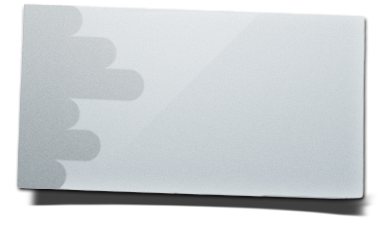
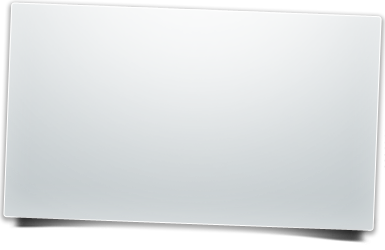
finished business card and footer

diff --git a/css/style.css b/css/style.css
@@ -155,7 +155,7 @@ button {  width: auto; overflow: visible; }
 body {
   background: #fff url(../graphics/bg.jpg) repeat center 2px;
   font-size: 100%;
-  -webkit-text-size-adjust: none;
+/*  -webkit-text-size-adjust: none;*/
   color: #869da4;
   font-family: "proxima-nova-1", "proxima-nova-2", "helevetica neue", helvetica, arial;
   text-shadow: 0px -1px 1px rgba(0,0,0,1);
@@ -174,7 +174,6 @@ h2 {
   font-weight: 400;
   text-align: center;
   width: 810px;
-  padding: 0px 20px;
   margin: 0px auto 40px auto;
   text-shadow: 0px -1px 3px rgba(0,0,0,1);
 }
@@ -290,7 +289,7 @@ intro
   font-weight: 400;
   text-align: center;
   -webkit-font-smoothing: antialiased;
-  text-shadow: 0px -1px 3px rgba(0,0,0,1);
+  text-shadow: 0px -2px 4px rgba(0,0,0,0.75);
   color: #c9d4d7;
 }
 
@@ -311,7 +310,6 @@ slideshow
   -moz-border-radius: 10px;
   border-radius: 10px;
   background: #0c0d0e url(../graphics/slideshow-bg.png) repeat top center;
-  margin-bottom: 0px;
   -webkit-box-shadow: 0px 1px 2px rgba(255,255,255,0.1);
   -moz-box-shadow: 0px 1px 2px rgba(255,255,255,0.1);
   box-shadow: 0px 1px 2px rgba(255,255,255,0.1);
@@ -512,49 +510,61 @@ contact
 }
 
 #business-card {
-  background: transparent url(../graphics/business-card.png) no-repeat center center;
+/*  background: transparent url(../graphics/business-card.png) no-repeat center center;*/
+  -webkit-border-radius: 5px;
+  -moz-border-radius: 5px;
+  border-radius: 5px;
+  background-color: #f1f1f1;
+  border: 1px solid #fff;
+  padding: 50px 0px 0px 0px;
+  text-shadow: none;
+  width: 383px;
   text-align: center;
-  padding: 60px 40px 0px 0px;
-  text-shadow: none;
-  width: 325px;
-  height: 200px;
-  font-size: 0.675em;
-  text-shadow: 0px 1px 1px rgba(255,255,255,0.75);
-}
-
-#business-card-vertical {
-  background: transparent url(../graphics/business-card-vertical.png) no-repeat center center;
-  padding: 80px 92px 0px 40px;
-  text-shadow: none;
-  width: 160px;
-  height: 282px;
-  font-size: 0.75em;
-  text-shadow: 0px 1px 1px rgba(255,255,255,0.75);
-}
-
-#business-card p, #business-card h3 {
-  font-family: "lucida grande", "lucida sans", "lucida sans unicode", sans-serif;
-  color: #46575d;
+  height: 150px;
+  font-size: 0.875em;
+  text-shadow: 0px 1px 1px rgba(255,255,255,1);
+  background-image:-webkit-gradient(linear, 0% 0%, 0% 100%, color-stop(0%, #eee), color-stop(100%, #bbb));
+  background-image:-moz-linear-gradient(top, #eee 0%, #bbb 100%);
+  background-image:linear-gradient(top, #eee 0%, #bbb 100%);
+  color: #2b2f33;
   line-height: 1.3;
-  margin-bottom: 10px;
-  text-align: right;
   -moz-transform: rotate(2deg);
   -webkit-transform: rotate(2deg);
   -transform: rotate(2deg);
+
+/*  -webkit-transition: -webkit-transform 0.1s;
+  -moz-transition: -moz-transform 0.1s;
+  transition: transform 0.1s;
+*/
+/*  -webkit-transition-delay: 0.1s;
+  -moz-transition-delay: 0.1s;
+  transition-delay: 0.1s; */
+  -webkit-box-shadow: 0px 4px 10px rgba(0,0,0,1);
+  -moz-box-shadow: 0px 4px 10px rgba(0,0,0,1);
+  box-shadow: 0px 4px 10px rgba(0,0,0,1);
+*/}
+
+#business-card:hover {
+/*  -moz-transform: rotate(0deg);
+  -webkit-transform: rotate(0deg);
+  -transform: rotate(0deg);
+*/}
+
+#business-card p, #business-card h3 {
+  margin-bottom: 10px;
+
 }
 
 #business-card h3 {
-  font-weight: 700;
-  color: #303c3f;
+  font-family: "proxima-nova-1", "proxima-nova-2", "helevetica neue", helvetica, arial;
+  font-weight: 400;
+  font-size: 1.25em;
+  color: #2b2f33;
 }
 
 #business-card a, #business-card a:visited {
-  font-weight: bold;
-  color: #46575d;
-}
-
-#business-card a:hover, #business-card a:focus {
-  color: #303c3f;
+  color: #2b2f33;
+/*  text-decoration: underline;*/
 }
 
 /*
@@ -562,15 +572,60 @@ footer
 */
 
 footer {
-  text-align: center;
   clear: left;
   font-size: 0.875em;
+  width: 940px;
+  padding: 0px 20px;
+  margin-bottom: 40px;
+  height: auto;
+  min-height: 40px;
+  text-align: center;
+  color: #546970;
 }
 
 footer p {
-  width: 640px;
-  margin: 0px 170px 20px 170px;
 }
+
+footer a, footer a:visited {
+  color: #546970;
+  text-decoration: underline;
+}
+
+footer a:hover, footer a:focus {
+  color: #869da4;
+
+}
+
+/*#elsewhere {
+  width: 7em;
+  margin: 0px auto;
+}               */
+
+/*#elsewhere a, #elsewhere a:visited {
+  width: 2.2em;
+  float: left;
+  height: 2.2em;
+  display: block;
+  -webkit-border-radius: 1.5em;
+  -moz-border-radius: 1.5em;
+  border-radius: 1.5em;
+  background-color: #637b83;
+}
+
+#elsewhere a:hover, #elsewhere a:focus {
+  background-color: #7c959c;
+}           */
+
+/*#elsewhere a img {
+  height: 1.6em;
+  width: 1.6em;
+  margin: 0.3em;
+}
+
+#twitter {
+  margin-right: 1em;
+}    */
+
 
 /*
  * Media queries for responsive design

diff --git a/index.html b/index.html
@@ -90,13 +90,14 @@
         <div class="column half first">
           <p>Please feel free to get in touch with general inquiries, project proposals, or to just say hi.</p>
           <p>If you’re looking for a quote, please <a href="/files/project-sheet.rtf" title="download my project sheet">download my project sheet</a>, fill it out, and return it to me as an email attachment to <a href="mailto:info@dustandmold.net?subject=website%20inquiry">info@dustandmold.net</a>. I’ll get back to you as soon as possible.</p>
+          <p>You can also check out <a href="http://kevinfinlayson.com" title="my website">my website</a>, follow me on <a href="http://twitter.com/kevinfinlayson" title="Twitter" id="twitter">Twitter</a>, or see what I’m working on at <a href="http://dribbble.com/kevinfinlayson" title="Dribbble">Dribbble</a>.</p>
+
         </div><!--! end of .column -->
         <div class="column half" id="business-card">
           <h3>Dust and Mold Design</h3>
           <p>
             4741 Rue Fabre<br />
-            Montreal, Quebec<br />
-            Canada<br />
+            Montreal, Quebec, Canada<br />
             H2J 3V7
           </p>
           <p>
@@ -105,11 +106,8 @@
         </div><!--! end of #business-card -->
     </section><!-- end of #contact -->
     <footer class="clearfix">
-      <p id="copyright">All text and design copyright © Dust and Mold Design. All client work used with permission. All Rights Reserved. <a href="mailto:info@dustandmold.net?subject=website%20inquiry">Contact me</a> or visit <a href="http://kevinfinlayson.com" title="my website">my website</a>.</p><!--! end of #copyright -->
-      <p id="elsewhere">
-        <a href="http://twitter.com/kevinfinlayson" title="Twitter">Twitter</a>
-        <a href="http://dribbble.com/kevinfinlayson" title="Dribbble">Dribbble</a>
-      </p><!--! end of elsewhere -->
+      <p><!-- <a href="mailto:info@dustandmold.net?subject=website%20inquiry">Contact me</a>, visit <a href="http://kevinfinlayson.com" title="my website">my website</a>, follow me on <a href="http://twitter.com/kevinfinlayson" title="Twitter" id="twitter">Twitter</a>, or see what I’m working on at <a href="http://dribbble.com/kevinfinlayson" title="Dribbble">Dribbble</a>.<br />-->
+        Copyright © Dust and Mold Design. All Rights Reserved.</p>
     </footer>
 </div><!--! end of #container -->
 
